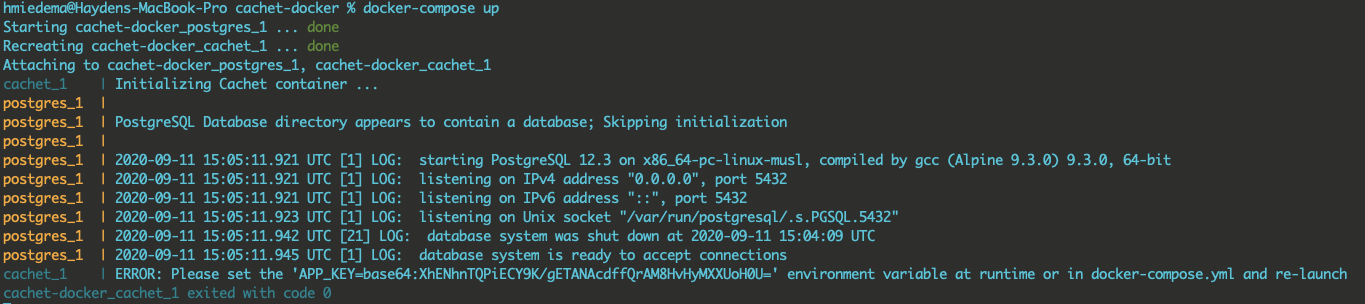
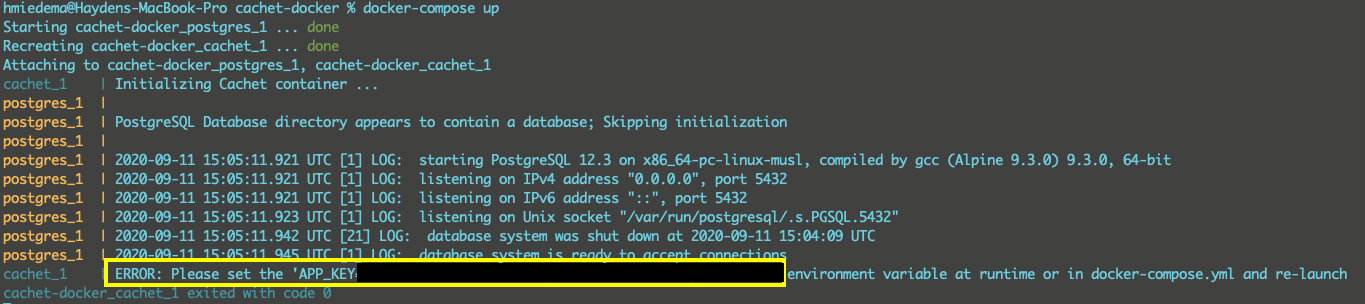
update documentation and add media

Changed region(s): [[0.0615, 0.8289, 0.5846, 0.9474]]

diff --git a/README.md b/README.md
@@ -15,26 +15,58 @@ This lab uses Cachet running inside a Docker container mostly for easy use and s
 
 If installing Cachet using Docker, head over to [this link](https://docs.cachethq.io/docs/get-started-with-docker) and follow the install instructions. Using `docker-compose` makes standing up Cachet quick and easy.
 
+**Note:** You will need to generate an app-key, or copy one from failed output when attempting to run the Cachet container after the first time. The easiest way to do this is look in the terminal output after trying to run the container with `docker-compose up` the first time. See the output below:
+
+![Cachet app-key][media/cachet-app-key.png?raw=true]
+
+Copy the value that's highlighted and paste it in the `docker-compose.yml` file for Cachet. It should follow this format `APP_KEY=base64:<token-value>`. After doing so, run `docker-compose up` again and you should see it successfully start. Browse to localhost and you should see your Cachet status page:
+
+![Cachet Running][media/cachet-running.png?raw=true]
+
 ## xMatters Docker Agent
-This lab also uses the docker-ized xMatters Agent. This may or may not be necessary depending on your Cachet environment setup. Running both the xMatters Agent & Cachet in containers made the communication between the two much easier. 
+This lab also uses the docker-ized xMatters Agent. This may or may not be necessary depending on your Cachet environment setup. Running both the xMatters Agent & Cachet in containers made the communication between the two much easier, however each step in the workflow can specify whether to run in the cloud or on an agent.
 
 If installing the xMatters Agent using Docker, head over to this repo and follow instructions to configure and run the agent: https://github.com/xmatters/xm-labs-xAgent-Dockerfile
 
 ### Running the two together
 - It's important to link the two containers together when running with docker. After running `docker-compose up` to start Cachet in the earlier steps be sure to start your xMatters agent with the below added parameters: 
 
+```
 docker run --name <XA-AGENT-NAME> -d \
-   -e WEBSOCKET_HOST=acme.xmatters.com \
+   -e WEBSOCKET_HOST=<XMATTERS-HOST>.xmatters.com \
    -e WEBSOCKET_SECRET=<XMATTERS-KEY> \
    -e OWNER_API_KEY=<OWNER-API-KEY>  \
    -e FRIENDLY_NAME=dockeragent \
    -p 8081 \
-   --link cachet-docker_cachet_1 \
-   --net cachet-docker_default \
+   --link <cachet-container-name> \
+   --net <cachet-network-name> \
    xa:latest
+```
+
+Be sure to replace all of the above info in between the `< >`'s above with data from your environment and configuration.
+
+## xMatters Workflow Configuration
+After importing the workflow, browse to it in your xMatters environment and select `Components -> Endpoints`. Edit the Cachet endpoint to point at the root of your Cachet instance:
+![Endpoints][media/endpoints.png?raw=true]
+
+![Cachet Endpoint][media/cachet-endpoint.png?raw=true]
+
+If you are runnning Cachet using the docker container above, you can use the IP address of the container and port 8000 for the base root URL of the API with this out of the box setup. You can also add or setup any type of authentication that your Cachet API instance may require on this page.
 
 # Testing
+Browse to one of the flows in the imported communication plan - recommended to choose "Create Component" to create a test component in Cachet running through xMatters. Select the HTTP trigger step in the workflow and copy the URL. The screen below shows where you can find this URL:
 
+![Create Component Endpoint][media/create-component.png?raw=true]
+
+Take this URL and test POSTing to it using Postman (or your favorite API testing tool). 
+
+The same functionality can be tested from within the xMatters UI as all of these workflows can be initiated from a form as well:
+1. Head to the Messaging menu item, and select "Create Component" from the UI menu underneath the Cachet Status Page section 
+2. Fill out the form, being sure to fill out all required info.
+3. Submit the form using the "Send Message" button.
+4. Head over to your Cachet status page and in a few short seconds (or milliseconds) you should see your newly created component.
 
 # Troubleshooting
+While testing, you can use the activity stream in the xMatters UI on any of the Flow Designer pages to see a log of what happened. This is highly recommended while setting up the integration for the first time, or while adding or changing any functionality.
 
+![Activity Stream][media/activity-stream.png?raw=true]
